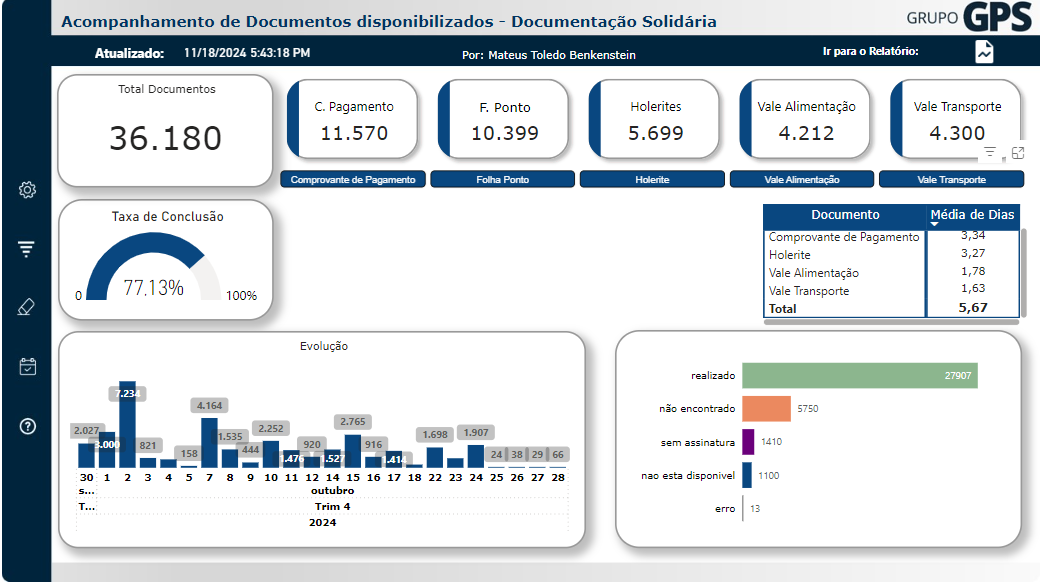
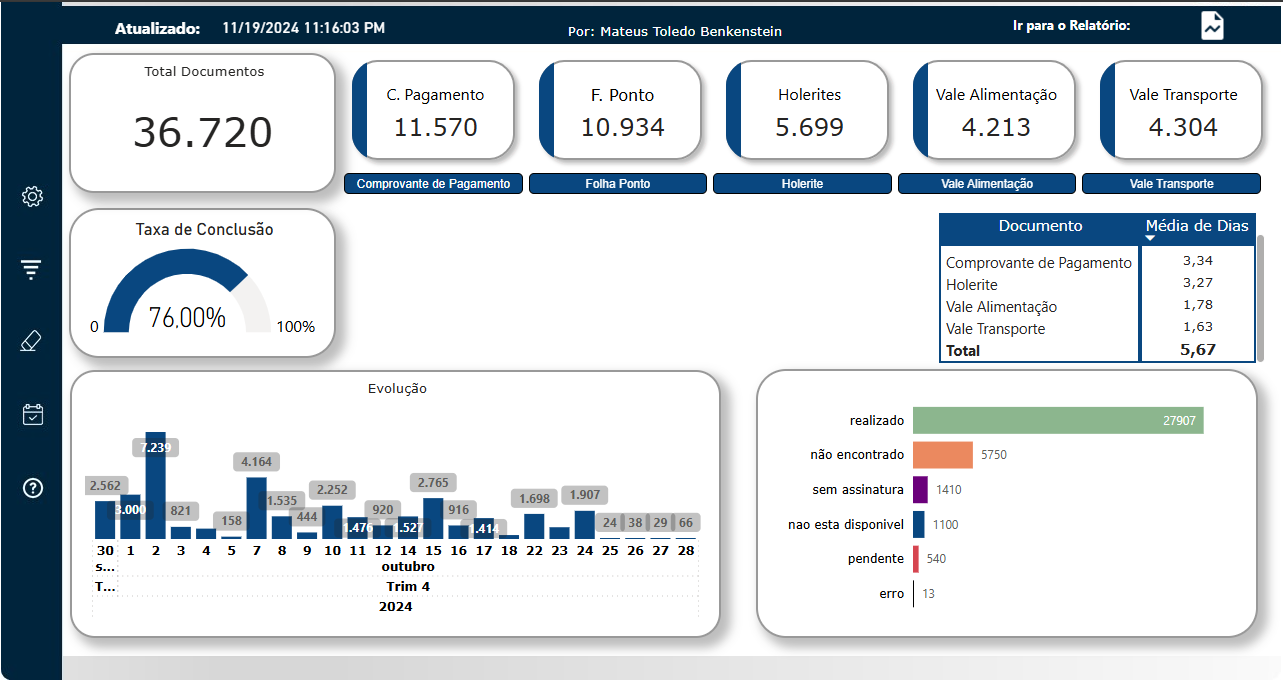
adicionando uma nova sessão para as imagens do dashboard

diff --git a/index.html b/index.html
@@ -7,6 +7,7 @@
     <link rel="stylesheet" href="css/home.css">
     <link rel="stylesheet" href="css/me.css">
     <link rel="stylesheet" href="css/work.css">
+    <link rel="stylesheet" href="css/work_2.css">
     <link rel="stylesheet" href="css/contact.css">
     <link rel="stylesheet" href="css/style.css">
 
@@ -71,20 +72,30 @@
                 <p class="hidden-text">O projeto trouxe resultados significativos na melhoria dos processos internos, especialmente na entrega de documentos aos clientes. Agora, o processo de entrega está mais ágil e eficaz, permitindo que o setor economize um tempo considerável. Com a automação da tarefa, a equipe pode dedicar mais horas ao que realmente importa: realizar análises mais minuciosas e precisas. Essa otimização não só trouxe maior assertividade nas entregas, mas também resultou em uma economia substancial de horas ao longo do mês, impactando positivamente na produtividade e na qualidade do trabalho.</p>
             </div>
         </div>
-        <div class="image-container">
-            <img src="assets/dash.png" alt="Imagem do caso de sucesso">
-        </div>    
+    
         
         <div class="text-container">
             <h2>Mais sobre o projeto</h2><br>
-            <p> A imagem mostra um print do segundo mês de teste dos scripts, evidenciando o mapeamento das entregas automatizadas. O gráfico revela que a média geral de entrega foi inferior a 6 dias, utilizando um computador com 6 GB de RAM. Esse desempenho é excelente, especialmente quando comparado ao processo anterior, que demandava o esforço de um setor inteiro e levava cerca de um mês para disponibilizar todos os arquivos. O mapeamento destaca a otimização significativa no tempo de entrega, refletindo a eficiência da automação e seu impacto positivo, tornando o processo muito mais ágil e preciso.</p>
-            
+            <p> Os resultados do segundo mês de testes dos scripts mostram uma redução significativa no tempo de entrega, com uma média inferior a 6 dias, utilizando um computador com 6 GB de RAM. Esse desempenho contrasta com o processo anterior, que demandava o esforço de um setor inteiro e levava cerca de um mês para disponibilizar todos os arquivos. O mapeamento destaca a otimização significativa no tempo de entrega, refletindo a eficiência da automação e seu impacto positivo, tornando o processo muito mais ágil e preciso.</p>  
         </div>
 
     </div>
-    
+    <div id="work_2" class="section">
+        <div class="gallery-container">
+            <button class="gallery-btn prev" onclick="changeImage(-1)">&#10094;</button>
+            
+            <div class="image-container">
+                <img id="gallery-image" src="assets/dash.png" alt="Galeria" />
+                <div class="image-text">Este print mostra a análise do segundo mês de testes do projeto, com uma taxa de conclusão de 76%, levando em conta os documentos que não estavam disponiveis para serem entregues.  </div> <!-- Texto da imagem -->
+            </div>
+            
+            <button class="gallery-btn next" onclick="changeImage(1)">&#10095;</button>
+        </div>
+        
+        
+    </div>
     <div id="contact" class="section"></div>
-
+    <script src="script.js"></script>
 </body>
 </html>
 

diff --git a/css/work.css b/css/work.css
@@ -87,13 +87,19 @@
     background-color: #121212; /* Cor de fundo, para destacar o conteúdo */
     color: #F2F2F2; /* Cor do texto */
     position: absolute; /* Permite posicionar a div em relação à tela */
-    left: 50px; /* Espaço de 120px da borda esquerda */
-    top: 220px; /* Ajuste opcional para a posição vertical */
-    width: 420px; /* Largura fixa */
+    left: 50%; /* Espaço de 120px da borda esquerda */
+    transform: translate(-50%, -50%); /* Centraliza exatamente ao meio */
+    top: 380px; /* Ajuste opcional para a posição vertical */
+    width: 700px; /* Largura fixa */
     height: 390px; /* Altura fixa */
     z-index: 0; /* Garante que a div não seja sobreposta por outros elementos */
 }
-
+.text-container p{
+    font-size: 20px;
+}
+.text-container h2{
+    text-align: center; 
+}
 /* Ajustes de posição conforme a sessão */
 .text-container:nth-of-type(1) {
     margin-top: 80px; /* Ajuste de posição para o primeiro item */
@@ -111,44 +117,6 @@
         width: 100%; /* Largura 100% para telas menores */
         height: auto; /* Altura automática para conteúdo variável */
         left: 0; /* Para garantir que a div ocupe toda a largura da tela em telas pequenas */
-    }
-}
-.image-container {
-
-    padding: 20px; /* Espaçamento interno */
-    margin: 20px; /* Espaçamento externo */
-
-    position: absolute; /* Permite posicionar a div em relação à tela */
-    right: 50px; /* Espaço de 120px da borda direita */
-    top: 170px; /* Ajuste opcional para a posição vertical */
-    width: auto; /* Largura automática da div */
-    height: auto; /* Altura automática da div */
-    z-index: 0; /* Garante que a div não seja sobreposta por outros elementos */
-}
-
-.image-container img {
-    width: 700px;  /* Largura fixa de 650px para a imagem */
-    height: auto; /* Mantém a proporção da imagem */
-    border-radius: 8px;
-}
-
-/* Ajustes de posição conforme a sessão */
-.image-container:nth-of-type(1) {
-    margin-top: 80px; /* Ajuste de posição para o primeiro item */
-}
-
-.image-container:nth-of-type(2) {
-    margin-top: 50px; /* Ajuste para o segundo item, por exemplo */
-}
-
-/* Para responsividade (ajustar em telas menores) */
-@media (max-width: 768px) {
-    .image-container {
-        margin-top: 500px; /* Menos margem em telas menores */
-        padding: 15px; /* Menos padding em telas menores */
-        width: 100%; /* Largura 100% para telas menores */
-        height: auto; /* Altura automática para conteúdo variável */
-        right: 0; /* Para garantir que a div ocupe toda a largura da tela em telas pequenas */
     }
 }
 

diff --git a/script.js b/script.js
@@ -1,0 +1,36 @@
+const galleryItems = {
+    "assets/dash.png": "Este print mostra a análise do segundo mês de testes do projeto, com uma taxa de conclusão de 76%, levando em conta os documentos que não estavam disponiveis para serem entregues. ",
+    "assets/dahs_2.png": "Este print apresenta a análise considerando apenas os documentos realmente disponíveis para download e entrega aos clientes, com uma taxa de conclusão de 98,06%. Ele destaca a alta eficiência do processo, refletindo a precisão e a eficácia da automação ao fornecer os documentos solicitados dentro do prazo.",
+    // Adicione mais imagens e seus textos conforme necessário
+};
+
+let currentImage = "assets/dash.png"; // A primeira imagem a ser exibida
+let currentText = galleryItems[currentImage]; // O texto associado à primeira imagem
+
+function changeImage(direction) {
+    // Obtém as chaves (caminhos das imagens) em um array
+    const imagePaths = Object.keys(galleryItems);
+
+    // Encontra o índice da imagem atual
+    let currentIndex = imagePaths.indexOf(currentImage);
+
+    // Atualiza o índice com base na direção
+    currentIndex += direction;
+
+    // Garante que o índice circule entre as imagens
+    if (currentIndex < 0) {
+        currentIndex = imagePaths.length - 1;
+    } else if (currentIndex >= imagePaths.length) {
+        currentIndex = 0;
+    }
+
+    // Atualiza a imagem e o texto
+    currentImage = imagePaths[currentIndex];
+    currentText = galleryItems[currentImage];
+
+    // Atualiza a imagem na galeria
+    document.getElementById("gallery-image").src = currentImage;
+    
+    // Atualiza o texto abaixo da imagem
+    document.querySelector(".image-text").innerText = currentText;
+}

diff --git a/css/work_2.css b/css/work_2.css
@@ -1,0 +1,50 @@
+#work_2 {
+    background-color: #121212;
+    font-family: 'Raleway', sans-serif; /* Define Nunito como a fonte padrão */
+    font-family: 'Raleway', sans-serif; /* Define Nunito como a fonte padrão */
+    min-height: auto; /* Altura mínima baseada no conteúdo */
+    height: auto; /* Altura automática baseada no conteúdo */
+}
+.gallery-container {
+    position: relative;
+    width: 800px;
+    height: auto;
+    margin: 0 auto;
+    overflow: hidden;
+    text-align: center;
+    color: aliceblue;
+}
+
+.gallery-container img {
+    width: 100%; /* Faz a imagem ocupar 100% da largura da div pai */
+    max-width: 1000px; /* Ajusta a largura máxima para evitar que a imagem fique excessivamente grande */
+    height: auto; /* Mantém a proporção da altura */
+    object-fit: cover; /* Garante que a imagem cubra o espaço da div sem distorção */
+    border-radius: 10px;
+}
+
+
+.gallery-btn {
+    position: absolute;
+    top: 50%;
+    transform: translateY(-50%);
+    background-color: rgba(0, 0, 0, 0.5);
+    color: white;
+    border: none;
+    padding: 10px;
+    cursor: pointer;
+    font-size: 20px;
+    z-index: 1;
+}
+
+.gallery-btn.prev {
+    left: 10px;
+}
+
+.gallery-btn.next {
+    right: 10px;
+}
+
+.gallery-btn:hover {
+    background-color: rgba(0, 0, 0, 0.8);
+}

diff --git a/css/me.css b/css/me.css
@@ -1,15 +1,17 @@
 #me {
     background-color: #121212;
     font-family: 'Raleway', sans-serif; /* Define Nunito como a fonte padrão */
+    min-height: auto; /* Altura mínima baseada no conteúdo */
+    height: auto; /* Altura automática baseada no conteúdo */
 }
 
 #me h1{
     color: #F2F2F2;
     font-size:35px;
-    padding: 100px 120px 20px 120px; 
+    padding: 50px 120px 20px 120px; 
 }
 #me p{
     color: #F2F2F2;
-    font-size:25px;
-    padding: 100px 120px 20px 120px; 
+    font-size:20px;
+    padding: 20px 120px 50px 120px; 
 }

diff --git a/css/contact.css b/css/contact.css
@@ -1,3 +1,3 @@
 #contact {
-    background-color: #121212;
+    background-color: #000000;
 }
